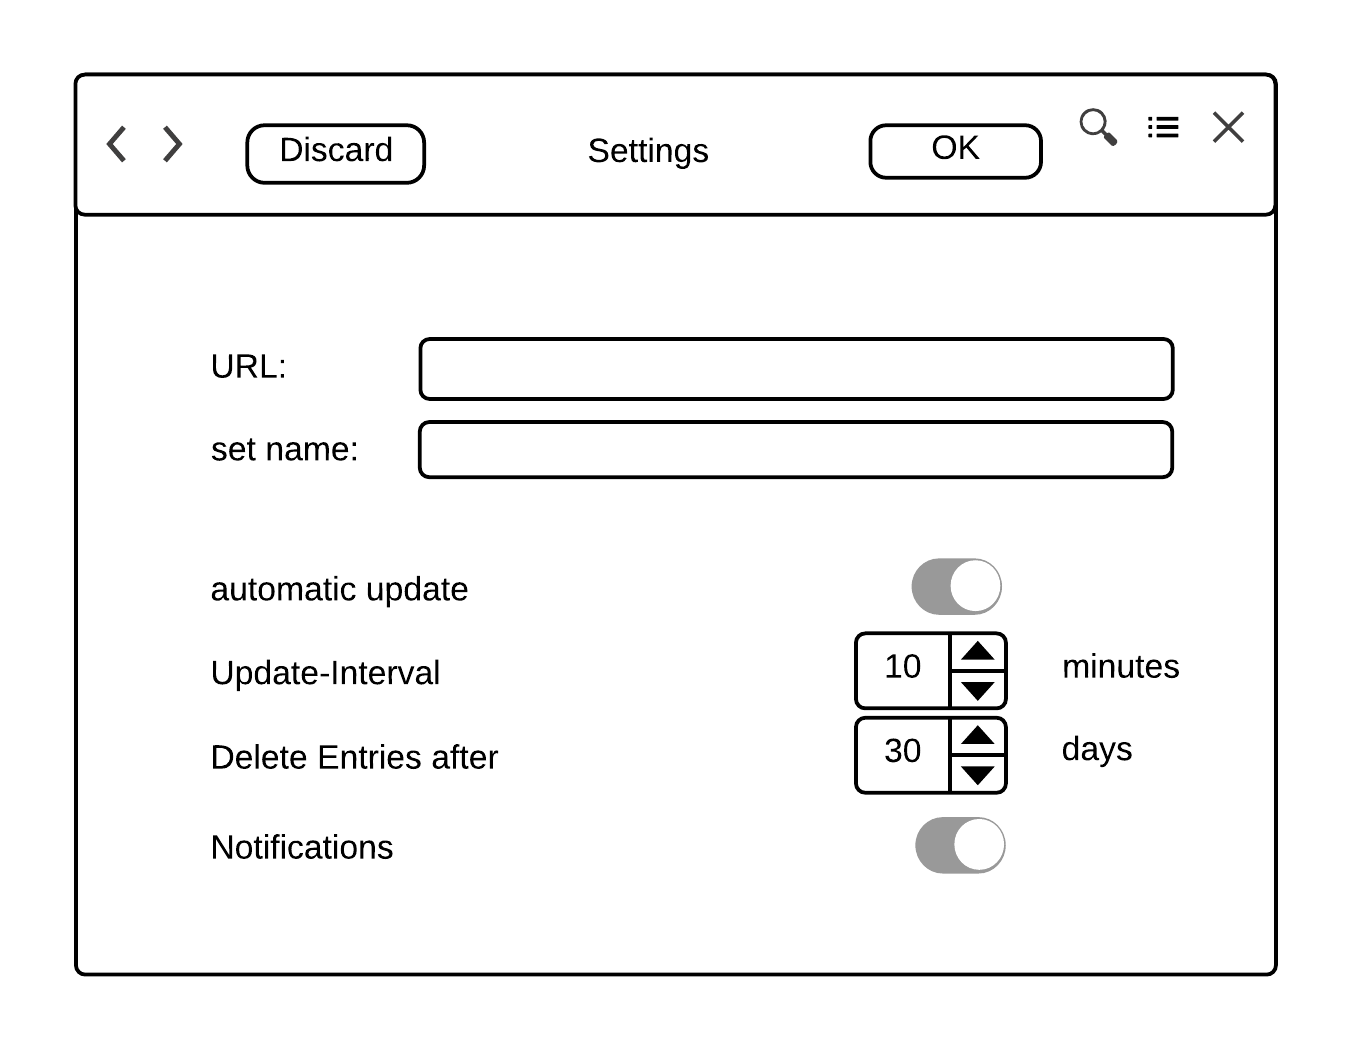
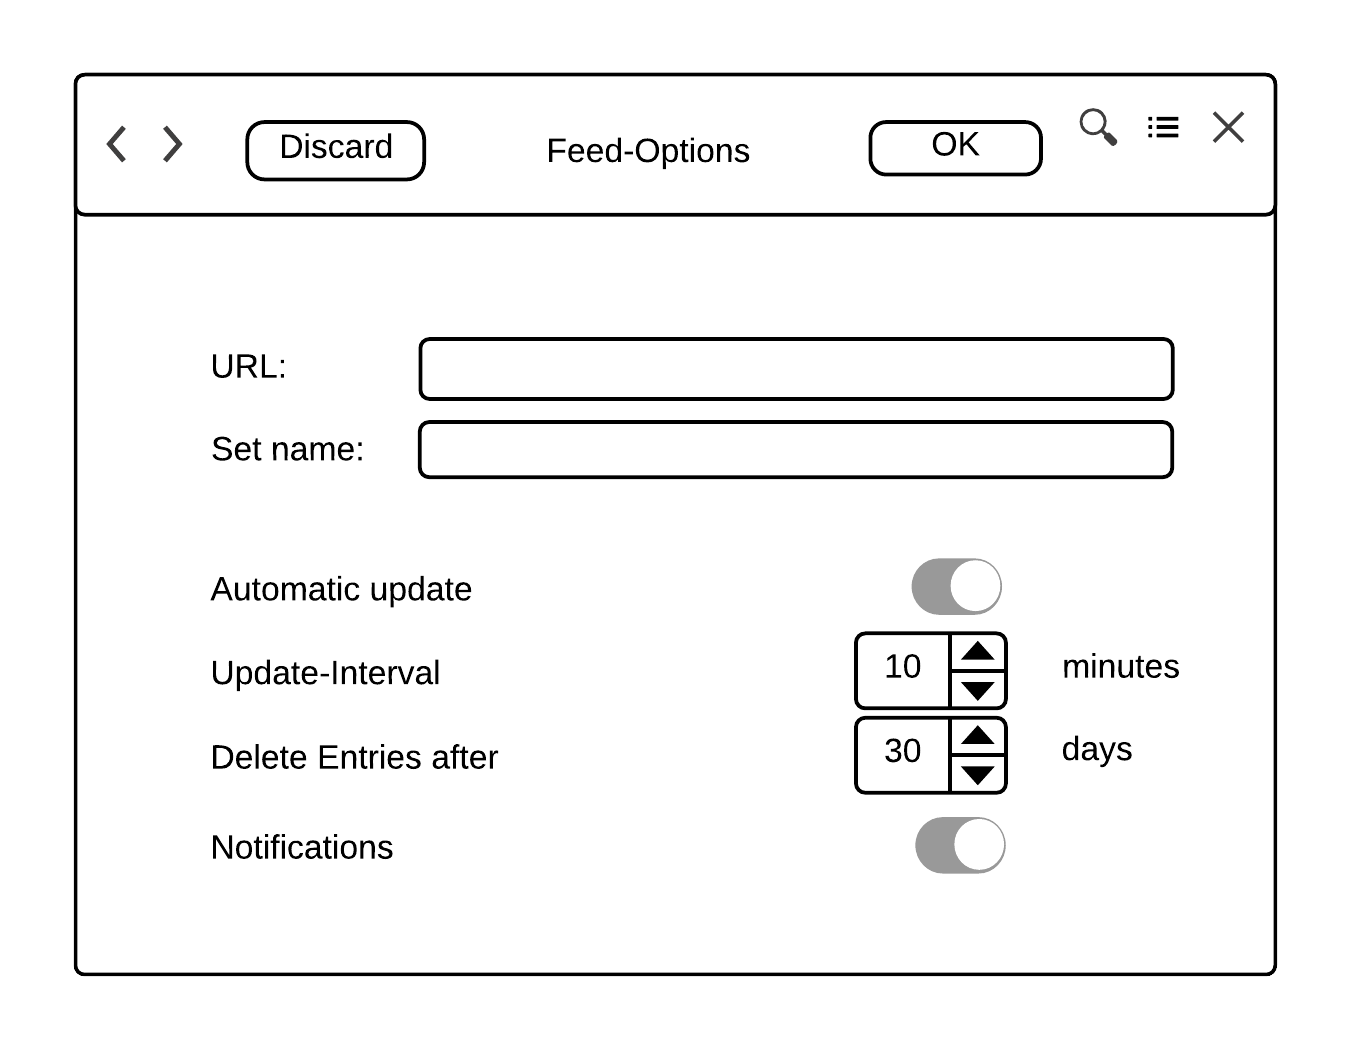
cleanup

diff --git a/rst/VII/index.rst b/rst/VII/index.rst
@@ -59,18 +59,19 @@ von Grund auf zu erlernen und anzuwenden.
    
 **Entwicklungssytem:**
 Die Software *gylfeed* wird unter der Linux Distribution *Fedora 21* entwickelt. Für die Entwicklung wird der
-Editor *gVim* verwendet. Zusätzlich werden Python--Plugins zur Validierung 
-der Python PEP--Stilrichtlinien (vgl. :cite:`PEP`) verwendet. 
+Editor *gVim* verwendet. Zusätzlich werden Python-Plugins zur Validierung 
+der Python PEP8 Stilrichtlinien (vgl. :cite:`PEP` -- PEP8 Stilrichtlinien für
+Python) verwendet. 
 Als weiteres Werkzeug
 wird die interaktive Python Shell *bpython* eingesetzt 
-(vgl. :cite:`bpython`). Das erlaubt das 
+(vgl. :cite:`bpython` -- Offizielle Webseite von *bpython*). *bpython* erlaubt das 
 Testen von Funktionalitäten außerhalb des eigentlichen Quelltextes.
 
 **Quellcodeverwaltung:**
 Zur Verwaltung des Quellcodes wird *git*, ein Versionsverwaltungssystem,
-eingesetzt. Der Quellcode selbst wird auf dem Hosting--Dienst für
-Software--Entwicklungsprojekte *GitHub* (vgl. :cite:`github`) gelagert. Das
-Projekt ist über folgenden Link zur GitHub-Webseite erreichbar:
+eingesetzt. Gelagert wird der Quellcode auf *GitHub*, einem Hosting-Dienst für
+Software-Entwicklungsprojekte (vgl. :cite:`github` -- Offizielle Webseite von
+*GitHub*). Folgender Link führt zur *GitHub*-Webseite des Projekts:
 
     * https://github.com/nanamii/gylfeed/ 
 
@@ -94,7 +95,8 @@ wird in der Zusammenfassung eingegangen.
 Implementierung der Klassen
 ---------------------------
 
-Die Klassen wurden anhand des Klassendiagramms in Abbildung :num:`klassendiagramm` 
+Die Klassen wurden anhand des Klassendiagramms in Kapitel
+:ref:`architekturentwurf` (Architekturentwurf) 
 implementiert. Der Quellcode ist unter der bereits
 genannten GitHub-Webseite abrufbar.
 
@@ -105,7 +107,7 @@ Download mit *libsoup*
 Der Download der Daten wird mit der Bibliothek *libsoup* umgesetzt. 
 *libsoup* ist eine HTTP-Bibliothek und ermöglicht
 innerhalb *gylfeed* das asynchrone Herunterladen der Feed-Daten (vgl.  
-:cite:`libsoup`).  
+:cite:`libsoup` -- Projektseite von *libsoup*).  
 
 Die im Folgenden aufgeführte Bibliothek *Universal Feedparser* ermöglicht zwar
 das direkte Herunterladen und anschließende Parsen eines Feeds, jedoch nur
@@ -147,7 +149,7 @@ Folgendes Code-Beispiel einer bpython-Sitzung soll die Grundfunktionalität
 
 .. code-block:: python
 
-    import feedparser
+    >>> import feedparser
 
     # Der Funktion *parse* wird die URL vom Feed der 
     # Sueddeutschen Zeitung übergeben und der Variable *feed_dict* zugewiesen
@@ -177,11 +179,11 @@ Dies bedeutet nicht, dass für jedes Feedformat die gleichen Daten vorliegen.
 Es erleichtert lediglich den Zugriff auf die Daten.
 
 
-Eingebetteter Browser mit *Webkit*
+Eingebetteter Browser mit *WebKit*
 ----------------------------------
 
 Innerhalb von *gylfeed* ist es möglich, Webseiten darzustellen. Umgesetzt
-wird dies mit der HTML-Rendering Engine *WebKit* (vgl. :cite:`WebKit`). Die aktuelle Version von
+wird dies mit der HTML-Rendering Engine *WebKit* (vgl. :cite:`WebKit` -- Offizielle Webseite von WebKit). Die aktuelle Version von
 *gylfeed* ermöglicht innerhalb der *EntryDetailsView* die Darstellung von
 Webinhalten. Der Benutzer kann den originalen
 Artikel zur jeweiligen Feed-Nachricht aufrufen. An dieser Stelle bieten sich
@@ -233,8 +235,8 @@ Focus auf der Row liegt.
 
 
 Jede Listbox Row enthält neben den Labels, den Namen des Feeds, das Icon des
-Feeds und einen Button für weitere Optionen, rechts zu sehen. In der 
-Abbildung hat bis auf den Feed *Golem-Atom* kein Feed ein Icon geliefert.
+Feeds und einen Button für weitere Optionen, rechts zu sehen. In Abbildung 
+:num:`feedview` hat bis auf den Feed *Golem-Atom* kein Feed ein Icon geliefert.
 Deshalb wird für die restlichen drei Feeds das selbst erstellte Standardicon
 angezeigt. Hier ist auch zu erkennen, dass Golem über das Format RSS kein
 Icon liefert, über das Format Atom hingegen schon.
@@ -310,9 +312,9 @@ Feeds. Neben diesen grundlegenden Daten zum Feed, können weitere
 Einstellungen vorgenommen werden. Für das automatische Update wird ein
 Switcher angeboten, der auf *An* oder *Aus* gestellt werden kann. Ist
 der Switcher in der Stellung *An*, kann zusätzlich ein Update-Intervall in
-Minuten gewählt werden. Dies kann stufenlos zwischen einer bis sechzig
+Minuten gewählt werden. Dies kann stufenlos zwischen einer bis 120
 Minuten eingestellt werden. Die Anzahl der Tage, nach denen Entries gelöscht
-werden, können zwischen X und X eingestellt werden. Die letzte Einstellung,
+werden, können zwischen einem und 360 Tagen eingestellt werden. Die letzte Einstellung,
 die für einen Feed gesetzt werden kann, ist die Anzeige von 
 System-Benachrichtigungen. Dafür wird ein Switcher angeboten.
 
@@ -338,7 +340,7 @@ hinzugefügt.
 Darstellung der Systemnachricht
 -------------------------------
 
-Die funktionalen Anforderungen sehen unter 4.2.2 - Optionen für Feeds, 
+Die funktionalen Anforderungen sehen unter :ref:`optionen` (Optionen für Feeds), 
 Notifications vor. Die Anzeige dieser Systemnachrichten betreffen zwar nicht
 die Benutzeroberfläche von *gylfeed* selbst, werden dem Benutzer jedoch 
 dargestellt und sollen deshalb kurz erläutert werden. Hat ein Feed neue
@@ -373,33 +375,38 @@ Unittests
 
 
 Für das systematische Testen der Software soll das Python 
-Unittest--Framework verwendet werden.
+Unittest-Framework verwendet werden.
 
 Folgendes Beispiel zeigt die grundlegende Funktionsweise:
 
 .. code-block:: python
 
-   def add(a, b): 
-       return a + b
+   def add(x, y): 
+       return x + y
 
    if __name__ == '__main__':
        import unittest
 
-       class SampleTest(unittest.TestCase):
+       class SimpleTest(unittest.TestCase):
            def test_add_func(self):
-               result = add(21, 21)
-               self.assertTrue(result == 42)
+               result = add(1, 99)
+               assertTrue(result == 100)
 
        unittest.main()
 
 
-Das Ausführen des Beispielcodes würde folgende Ausgabe produzieren:
+Das Ausführen des Beispielcodes würde folgende Ausgabe erzeugen:
 
 .. code-block:: bash
 
     Ran 1 test in 0.000s
 
     OK
+
+
+Wie im obigen Beispiel zu sehen ist, werden unter Python die Testfälle direkt in der Main-Methode definiert.
+Durch das Ausführen der jeweiligen Python-Datei wird die Main und somit die
+Testsuite gestartet.
 
 
 Installation

diff --git a/rst/V/index.rst b/rst/V/index.rst
@@ -1,3 +1,5 @@
+.. _architekturentwurf:
+
 ******************
 Architekturentwurf
 ******************
@@ -330,8 +332,8 @@ kompletten Daten durchführt.
 von GObject auf. GObject ermöglicht in diesem Fall das Anbieten eigener
 Signale.
 
-Die Klasse *Document* ermöglicht mit seinen internen Funktionen einen
-asynchronen Download. Die Funktion ``_append(chunk)`` wird von der Klasse
+Die Klasse *Document* ist eine Future-Klasse für den *Downloader*.
+Die enthaltene Funktion ``_append(chunk)`` wird von der Klasse
 *Downloader* solange aufgerufen, bis der eingehende Bytestream vollständig
 gelesen ist. An dieser Stelle kommt die Funktion ``_finish()`` zum Einsatz.
 Ist der Bytestream vollständig gelesen, löst die Funktion ``_finish()`` das
@@ -438,11 +440,14 @@ Feeds dargestellt wird.
 **IndicatorLabel:**
 
 ``__init__(*args)``: Der Konstruktor der Klasse *IndicatorLabel* kann mehrere
-Argumente übergeben bekommen, hierzu wird \*args verwendet. Innerhalb des
+Argumente übergeben bekommen, hierzu wird die Funktionalität ``*args`` der Python Sprachdefinition genutzt. 
+Das erlaubt das Übergeben einer variablen Anzahl an Argumenten.
+Innerhalb des
 Konstruktors wird der Konstruktor der Oberklasse Gtk.Label aufgerufen.
 
-``set_color(state)``: Setzt die Farbe des Labels anhand des Parameters state.
-Dazu wird intern CSS verwendet.
+``set_color(state)``: Setzt die Farbe des Labels anhand des Parameters *state*.
+Dazu wird intern CSS verwendet. Möglich macht dies die Funktion ``set_markup()``
+der Oberklasse Gtk.Label.
 
 
 **EntryListView:**
@@ -456,20 +461,15 @@ Entries.
 
 ``show_entries(listbox, row):`` Lässt die Entries eines Feeds darstellen. Als
 Übergabeparameter wird die Listbox der *FeedView* erwartet und die darin
-ausgewählte *Row*. Die Funktion ``show_entries()`` ruft weitere interne
-Funktionen auf.
-
+ausgewählte *Row*.
 
 **EntryRow:**
 
 ``__init__(*args)``: Der Konstruktor der Klasse *EntryRow* erwartet mehrere
-Argumente, hierzu wird \*args verwendet. Beispielsweise sind dies Titel,
+Argumente, hierzu wird ``*args`` verwendet. Beispielsweise sind dies Titel,
 Zeitstempel und Plot des Feeds. Zusammenfassend alle Daten, die in einer
 *EntryRow* dargestellt werden sollen. Innerhalb des Konstruktors wird der
 Konstruktor der Oberklasse *Gtk.ListBowRow* aufgerufen.
-
-Neben dem Konstruktor bietet die Klasse *EntryRow* Getter-Funktionen für Plot
-, Titel, Zeitstempel, Entry-ID, Feed und dem Attribut updated-parsed.
 
 
 **EntryDetailsView:**

diff --git a/rst/IV/index.rst b/rst/IV/index.rst
@@ -33,6 +33,8 @@ Die funktionalen Anforderungen, die an die Software *gylfeed* gestellt werden,
 sind im Folgenden aufgeführt.
 
 
+.. _verwaltung:
+
 Verwaltung von Feeds
 --------------------
 
@@ -43,6 +45,8 @@ bereits vorhanden ist. Kommt es zu einem Fehler, wird dieser mitgeteilt.
 **Feed löschen:** Durch die Auswahl eines Feeds besteht die Möglichkeit diesen zu
 löschen. 
 
+
+.. _optionen:
 
 Optionen für Feeds
 ------------------
@@ -61,6 +65,8 @@ angegebene Wert sind, werden gelöscht.
 geändert werden.
 
 
+.. _update:
+
 Update von Feeds
 ----------------
 
@@ -75,6 +81,7 @@ gefordert, dass der Update-Vorgang wenig Ressourcen beansprucht und andere
 Vorgänge, wie beispielsweise die Bedienung der grafischen Oberfläche, nicht
 behindert.
 
+.. _suche:
 
 Suche
 -----
@@ -85,6 +92,8 @@ suchbar. Die Ergebnisse werden angezeigt.
 **Suche innerhalb von Entries nach Titel:** Ein Entry innerhalb der Liste von
 Entries ist suchbar. Die Ergebnisse werden angezeigt.
 
+
+.. _bereitstellung:
 
 Bereitstellung von Daten
 ------------------------
@@ -97,6 +106,7 @@ Folgende Daten werden zur Verfügung gestellt:
  * Anzahl aller Entries
  * Inhalt der Entries
 
+.. _browserfunktion:
 
 Browserfunktion
 ---------------
@@ -104,6 +114,8 @@ Browserfunktion
 Innerhalb des Feedreaders gibt es eine Funktionalität, die den Inhalt von Links,
 darstellt. Es soll möglich sein, innerhalb *gylfeed* den ursprünglichen Artikel,
 zu dem der Entry erstellt wurde, anzuzeigen.
+
+.. _bedienkonzept:
 
 Bedienkonzept
 -------------
@@ -117,11 +129,15 @@ Ansicht zu verstehen.
 möglich, mit einer Computermaus zu navigieren.
 
 
+.. _performance:
+
 Performance
 -----------
 Sowohl das Starten der Software als auch das Verhalten während der Laufzeit soll
 für den Benutzer angemessen zügig ablaufen.
 
+
+.. _anforderungengui:
 
 Anforderungen an die Benutzeroberfläche
 =======================================

diff --git a/rst/VIII/index.rst b/rst/VIII/index.rst
@@ -14,15 +14,16 @@ Aktueller Stand des Projekts
 Die gestellten Anforderungen wurden in vollem Umfang umgesetzt.
 Zusammengefasst sind dies folgende Bereiche:
 
- * Verwaltung von Feeds
- * Optionen für Feeds
- * Update von Feeds
- * Suche
- * Bereitstellung von Daten
- * Browserfunktion
- * Bedienkonzept
- * Performance
- * Anforderungen an die grafische Benutzeroberfläche
+ * Verwaltung von Feeds (vgl. :ref:`verwaltung`)
+ * Optionen für Feeds (vgl. :ref:`optionen`)
+ * Update von Feeds (vgl. :ref:`update`)
+ * Suche (vgl. :ref:`suche`)
+ * Bereitstellung von Daten (vgl. :ref:`bereitstellung`)
+ * Browserfunktion (vgl. :ref:`browserfunktion`)
+ * Bedienkonzept (vgl. :ref:`bedienkonzept`)
+ * Performance (vgl. :ref:`performance`)
+ * Anforderungen an die grafische Benutzeroberfläche (vgl.
+   :ref:`anforderungengui`)
 
 Für Teile dieser umgesetzten Anforderungen gibt es Verbesserungspotential. 
 Optimierungen, die sinnvoll erscheinen, werden im folgenden Abschnitt
@@ -43,8 +44,8 @@ Behandlung von fehlenden Attributen innerhalb des Feeds wünschenswert.
 
 **Ausnahmebehandlung**: Die Ausnahmebehandlung innerhalb *gylfeed* ist zum
 Zeitpunkt der Abgabe der Projektarbeit noch verbesserungswürdig. Beim Hinzufügen
-eines Feeds werden aktuell folgende Fälle betrachtet. Ein Feed ist bereits
-vorhanden, die Anfrage für einen Feed ist negativ, der Name des Feeds ist
+eines Feeds werden aktuell folgende Fälle betrachtet: Ein Feed ist bereits
+vorhanden, die Download-Anfrage für einen Feed ist negativ, der Name des Feeds ist
 bereits vorhanden. Hier ist zukünftig eine grundlegende Betrachtung aller möglichen
 Ausnahmen notwendig.
 

diff --git a/rst/appendix.rst b/rst/appendix.rst
@@ -8,17 +8,8 @@
 Feedreader *QuiteRSS* und *RSSOwl*
 ==================================
 
-Die Feedreader *QuiteRSS* und *RSSOwl* als weitere Beispiele von 
+Die Feedreader *RSSOwl* und *QuiteRSS* als weitere Beispiele von 
 Desktop-Feedreadern, die an den Aufbau eines Mailclients angelehnt sind.
-
-.. _quiterss:
-
-.. figure:: ./figs/quite_rss.png
-    :alt: Benutzeroberfläche des Feedreaders QuiteRSS.
-    :width: 100%
-    :align: center
-    
-    Benutzeroberfläche des Feedreaders *QuiteRSS*.
 
 
 .. figure:: ./figs/rss_owl.jpg
@@ -28,6 +19,14 @@ Desktop-Feedreadern, die an den Aufbau eines Mailclients angelehnt sind.
     
     Benutzeroberfläche des Feedreaders *RSSOwl*, Quelle: http://www.heise.de/.
 
+.. _quiterss:
+
+.. figure:: ./figs/quite_rss.png
+    :alt: Benutzeroberfläche des Feedreaders QuiteRSS.
+    :width: 80%
+    :align: center
+    
+    Benutzeroberfläche des Feedreaders *QuiteRSS*.
 
 
 .. _dict:
@@ -159,7 +158,6 @@ Der Python-Code der Implementierung des Testservers.
 
     class Article:
         def __init__(self):
-
             self.title = faker.sentence(nb_words=3, variable_nb_words=True)
             self.url = faker.uri()
             self.rendered_text= faker.text()
@@ -185,7 +183,6 @@ Der Python-Code der Implementierung des Testservers.
                 updated=article.last_update,
                 published=article.published)
     return feed.get_response()
-
 
     if __name__ == '__main__':
        app.run(debug=True)

diff --git a/rst/VI/index.rst b/rst/VI/index.rst
@@ -21,9 +21,9 @@ Ein minimalistisches Design soll dadurch erreicht werden, dass lediglich die
 wichtigen Bestandteile dargestellt werden. Auf unnötige Spielereien wird
 verzichtet. Es wird eine klare, übersichlich strukturierte Oberfläche entworfen.
 
-Das Ausmaß der GUI wird exakt einer Ansicht entsprechen und dadurch die
-geforderte Kompaktheit erfüllen. Es wird immer genau ein Thema dargestellt.
-Keine Verschachtelung verschiedener Fenster. Das bietet einerseits den Vorteil, 
+Die GUI wird immer exakt ein Thema darstellen und dadurch die
+geforderte Kompaktheit erfüllen.
+Es wird keine Verschachtelung verschiedener Fenster geben. Das bietet einerseits den Vorteil, 
 leicht die Übersicht zu behalten und andererseits kann diese GUI leicht in einen
 Tiling-Window-Manager integriert werden (vgl. :cite:`i3` -- i3 als Beispiel eines
 Tiling-Window-Managers).
@@ -119,10 +119,10 @@ angezeigten Feeds nach unten und schafft Platz für die Suchleiste.
 
 
    
-Ansicht der Settings - *FeedOptionsView*
+Ansicht der Optionen - *FeedOptionsView*
 ----------------------------------------
 
-Abbildung :num:`options` zeigt den Entwurf der Ansicht Settings.
+Abbildung :num:`options` zeigt den Entwurf der Ansicht *FeedOptionsView*.
 Diese Ansicht wird verwendet, um neue Feeds hinzuzufügen, oder die
 Einstellungen eines bereits vorhandenen Feeds anzuzeigen und Änderungen
 vorzunehmen. Für diese Ansicht wird in der Header Bar ein zustimmender und
